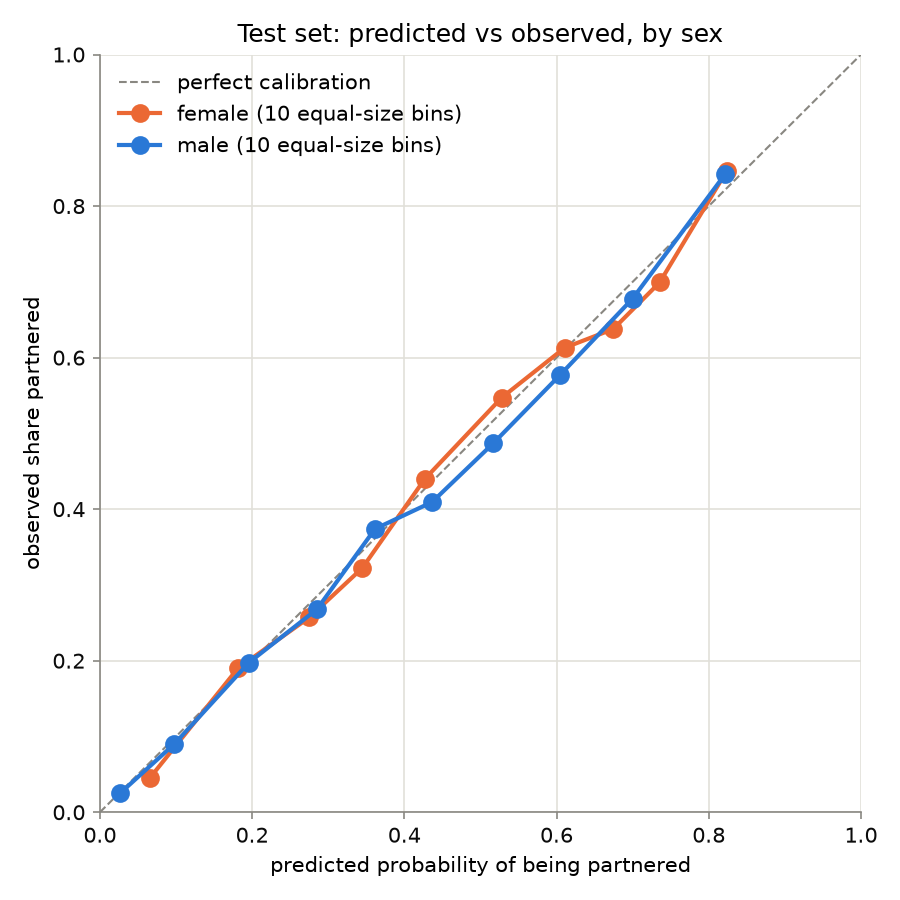
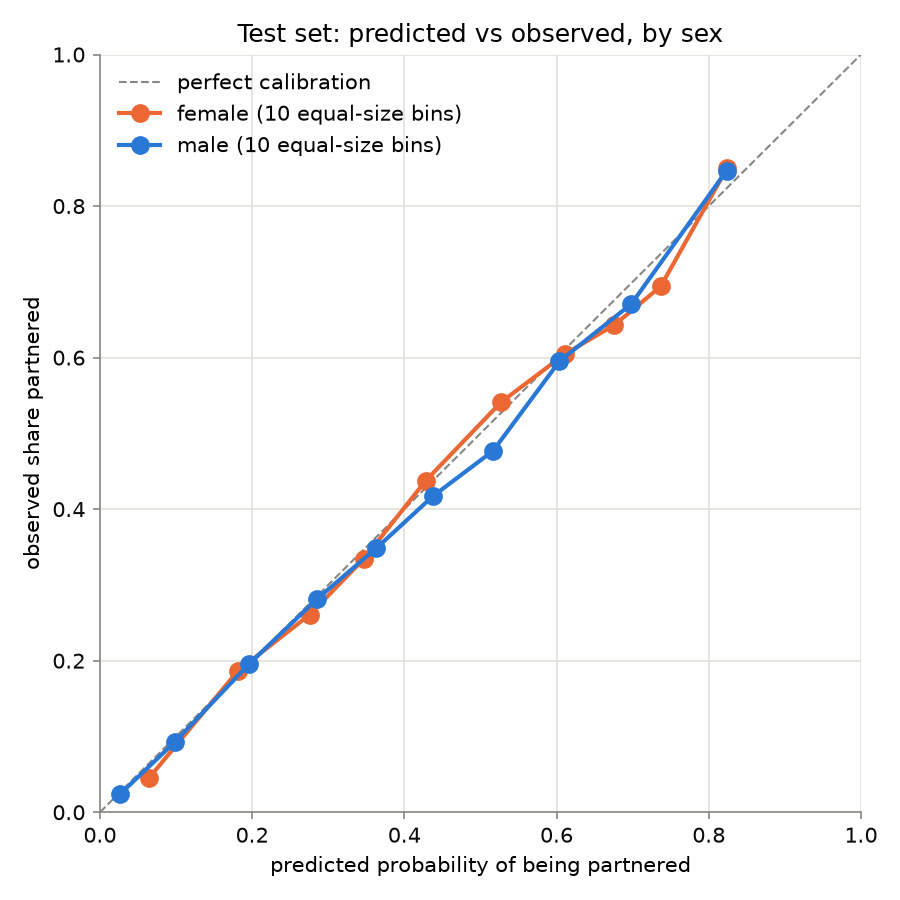
Review fixes: JSON null as missing, numeric type check, cap hours_worked
- predict.py: null on any field behaves like an omitted field; non-numeric
  values on numeric fields exit with a one-line message; why-comment on
  pandas 3 keeping NaN through astype("str").
- clean_nlsy97.py: hours_worked above 8,760 (hours in a year) set to NaN.
- Full rerun clean -> split -> train -> evaluate; test re-reported after
  the data fix, model code and settings unchanged.

diff --git a/src/predict.py b/src/predict.py
@@ -30,18 +30,26 @@ def predict_proba(model, people):
 
 def person_row(model, person):
     """Check the JSON fields and turn them into a one-row table with every feature column."""
-    if "age" not in person:
-        sys.exit("age is required: it drives most of the prediction")
     unknown = set(person) - set(model["features"])
     if unknown:
         sys.exit(f"unknown fields {sorted(unknown)}; allowed: {model['features']}")
+    # A JSON null means "unknown", exactly like leaving the field out.
+    person = {col: value for col, value in person.items() if value is not None}
+    if "age" not in person:
+        sys.exit("age is required: it drives most of the prediction")
+
+    categorical = list(model["categories"])
+    numeric = [col for col in model["features"] if col not in categorical]
     for col, allowed in model["categories"].items():
         if col in person and person[col] not in allowed:
             sys.exit(f"{col} must be one of {allowed}, got {person[col]!r}")
+    for col in numeric:
+        if col in person and not isinstance(person[col], (int, float)):
+            sys.exit(f"{col} must be a number, got {person[col]!r}")
 
     row = pd.DataFrame([person]).reindex(columns=model["features"])
-    categorical = list(model["categories"])
-    numeric = [col for col in model["features"] if col not in categorical]
+    # Missing categories must stay NaN (not the text "nan") so the pipelines impute them as in
+    # training; pandas 3 keeps NaN through astype("str"), pandas 2 would not.
     row[categorical] = row[categorical].astype("str")
     row[numeric] = row[numeric].astype(float)
     return row

diff --git a/tests/test_predict.py b/tests/test_predict.py
@@ -8,8 +8,15 @@ from pathlib import Path
 ROOT = Path(__file__).resolve().parent.parent
 
 
-def test_sparse_person_gets_a_probability():
-    person = {"age": 27, "sex": "female", "earnings": None}
+def predict(person):
     result = subprocess.run([sys.executable, "src/predict.py"], input=json.dumps(person),
                             capture_output=True, text=True, cwd=ROOT, check=True)
-    assert 0 <= float(result.stdout) <= 1
+    return float(result.stdout)
+
+
+def test_sparse_person_gets_a_probability():
+    assert 0 <= predict({"age": 27, "sex": "female", "earnings": None}) <= 1
+
+
+def test_null_category_is_the_same_as_an_omitted_one():
+    assert predict({"age": 27, "sex": "female", "religion": None}) == predict({"age": 27, "sex": "female"})

diff --git a/src/evaluate.py b/src/evaluate.py
@@ -117,6 +117,8 @@ def main():
         f"{len(test):,} rows, {test['person_id'].nunique():,} people never seen in training. "
         "Unweighted (survey weights not used). Lower is better except ROC-AUC. "
         "calib_error: mean gap between predicted and observed rate over 10 equal-size bins.\n\n"
+        "Second opening of the test set: a re-report after a data fix (hours_worked above "
+        "8,760 set to missing), with no changes to the model code or settings.\n\n"
         "## All models\n\n" + markdown(pd.DataFrame(overall)) + "\n\n"
         "## Final stack by sex\n\n" + markdown(pd.DataFrame(by_sex)) + "\n\n"
         "## Final stack by age band\n\n" + markdown(pd.DataFrame(by_age)) + "\n\n"

diff --git a/src/clean_nlsy97.py b/src/clean_nlsy97.py
@@ -160,7 +160,8 @@ def main():
             weeks[asked] = num(cols, f"CVC_WKSWK_YR_ALL_{int(yy):02d}_XRND")
             hours[asked] = num(cols, f"CVC_HOURS_WK_YR_ALL_{int(yy):02d}_XRND")
         part["weeks_worked"] = weeks
-        part["hours_worked"] = hours
+        # a year has 8,760 hours; a few reported totals exceed it (up to 17,276)
+        part["hours_worked"] = hours.where(hours <= 8760)
         part["employed"] = weeks.gt(0).map({True: 1.0, False: 0.0}).where(weeks.notna())
 
         # carried forward from every round, including before age 18

diff --git a/results/metrics.md b/results/metrics.md
@@ -2,30 +2,32 @@
 
 26,434 rows, 1,770 people never seen in training. Unweighted (survey weights not used). Lower is better except ROC-AUC. calib_error: mean gap between predicted and observed rate over 10 equal-size bins.
 
+Second opening of the test set: a re-report after a data fix (hours_worked above 8,760 set to missing), with no changes to the model code or settings.
+
 ## All models
 
 | group | rows | partnered | log_loss | brier | roc_auc | calib_error |
 |---|---|---|---|---|---|---|
 | age + sex baseline | 26434 | 0.428 | 0.6007 | 0.2086 | 0.7178 | 0.0100 |
-| catboost | 26434 | 0.428 | 0.5431 | 0.1845 | 0.7892 | 0.0146 |
-| final stack | 26434 | 0.428 | 0.5430 | 0.1845 | 0.7892 | 0.0139 |
+| catboost | 26434 | 0.428 | 0.5426 | 0.1844 | 0.7896 | 0.0151 |
+| final stack | 26434 | 0.428 | 0.5425 | 0.1844 | 0.7896 | 0.0146 |
 
 ## Final stack by sex
 
 | group | rows | partnered | log_loss | brier | roc_auc | calib_error |
 |---|---|---|---|---|---|---|
-| female | 13466 | 0.460 | 0.5600 | 0.1909 | 0.7774 | 0.0200 |
-| male | 12968 | 0.395 | 0.5252 | 0.1779 | 0.7973 | 0.0168 |
+| female | 13466 | 0.460 | 0.5600 | 0.1910 | 0.7776 | 0.0184 |
+| male | 12968 | 0.395 | 0.5244 | 0.1775 | 0.7981 | 0.0146 |
 
 ## Final stack by age band
 
 | group | rows | partnered | log_loss | brier | roc_auc | calib_error |
 |---|---|---|---|---|---|---|
-| 18-24 | 10989 | 0.233 | 0.4452 | 0.1457 | 0.7859 | 0.0128 |
-| 25-29 | 6800 | 0.502 | 0.6365 | 0.2227 | 0.6903 | 0.0208 |
-| 30-34 | 3608 | 0.598 | 0.6026 | 0.2079 | 0.7173 | 0.0267 |
-| 35-39 | 3554 | 0.639 | 0.5881 | 0.2016 | 0.7168 | 0.0276 |
-| 40-43 | 1483 | 0.619 | 0.5851 | 0.1999 | 0.7358 | 0.0446 |
+| 18-24 | 10989 | 0.233 | 0.4454 | 0.1458 | 0.7856 | 0.0124 |
+| 25-29 | 6800 | 0.502 | 0.6354 | 0.2222 | 0.6920 | 0.0208 |
+| 30-34 | 3608 | 0.598 | 0.6014 | 0.2074 | 0.7201 | 0.0282 |
+| 35-39 | 3554 | 0.639 | 0.5882 | 0.2017 | 0.7161 | 0.0296 |
+| 40-43 | 1483 | 0.619 | 0.5840 | 0.1995 | 0.7376 | 0.0490 |
 
 ## Confidently wrong
 
@@ -33,10 +35,10 @@ Rows where the final model was sure, split into right and wrong answers.
 
 | confidence | actually | rows | share | mean age | men | median earnings | mean weeks worked | has nonresident children |
 |---|---|---|---|---|---|---|---|---|
-| predicted ≥ 0.9 | right | 158 | 0.919 | 37.8 | 0.48 | 102,500 | 41.2 | 0.00 |
-| predicted ≥ 0.9 | wrong | 14 | 0.081 | 38.6 | 0.57 | 117,000 | 41.0 | 0.00 |
-| predicted ≤ 0.1 | right | 3008 | 0.963 | 19.2 | 0.64 | 3,000 | 26.0 | 0.01 |
-| predicted ≤ 0.1 | wrong | 114 | 0.037 | 19.6 | 0.66 | 5,000 | 30.1 | 0.03 |
+| predicted ≥ 0.9 | right | 186 | 0.935 | 37.6 | 0.54 | 101,500 | 40.9 | 0.00 |
+| predicted ≥ 0.9 | wrong | 13 | 0.065 | 39.5 | 0.46 | 107,500 | 29.9 | 0.00 |
+| predicted ≤ 0.1 | right | 3031 | 0.965 | 19.2 | 0.63 | 3,000 | 25.9 | 0.01 |
+| predicted ≤ 0.1 | wrong | 110 | 0.035 | 19.7 | 0.66 | 5,000 | 30.5 | 0.03 |
 
 ## Figures
 

diff --git a/results/cv_results.md b/results/cv_results.md
@@ -5,12 +5,12 @@
 | model | log_loss | brier | roc_auc | calib_error |
 |---|---|---|---|---|
 | age_sex_baseline | 0.6067 ± 0.0054 | 0.2111 ± 0.0024 | 0.7108 ± 0.0082 | 0.0132 ± 0.0040 |
-| logistic | 0.5701 ± 0.0080 | 0.1952 ± 0.0035 | 0.7645 ± 0.0086 | 0.0163 ± 0.0040 |
-| catboost | 0.5462 ± 0.0085 | 0.1856 ± 0.0036 | 0.7885 ± 0.0086 | 0.0124 ± 0.0039 |
-| tabpfn | 0.5544 ± 0.0100 | 0.1890 ± 0.0042 | 0.7807 ± 0.0096 | 0.0209 ± 0.0073 |
-| catboost + calibration (stacker on catboost alone) | 0.5463 ± 0.0086 | 0.1856 ± 0.0037 | 0.7885 ± 0.0086 | 0.0140 ± 0.0049 |
-| stack: logistic + catboost | 0.5464 ± 0.0086 | 0.1857 ± 0.0037 | 0.7884 ± 0.0086 | 0.0142 ± 0.0049 |
-| stack: catboost + tabpfn | 0.5462 ± 0.0087 | 0.1856 ± 0.0037 | 0.7886 ± 0.0088 | 0.0149 ± 0.0061 |
-| stack: logistic + catboost + tabpfn | 0.5463 ± 0.0087 | 0.1856 ± 0.0037 | 0.7885 ± 0.0088 | 0.0148 ± 0.0059 |
+| logistic | 0.5701 ± 0.0079 | 0.1952 ± 0.0035 | 0.7644 ± 0.0086 | 0.0164 ± 0.0039 |
+| catboost | 0.5460 ± 0.0083 | 0.1855 ± 0.0035 | 0.7886 ± 0.0084 | 0.0121 ± 0.0040 |
+| tabpfn | 0.5544 ± 0.0100 | 0.1890 ± 0.0042 | 0.7806 ± 0.0096 | 0.0205 ± 0.0070 |
+| catboost + calibration (stacker on catboost alone) | 0.5462 ± 0.0085 | 0.1856 ± 0.0036 | 0.7886 ± 0.0084 | 0.0139 ± 0.0045 |
+| stack: logistic + catboost | 0.5462 ± 0.0085 | 0.1856 ± 0.0036 | 0.7885 ± 0.0084 | 0.0138 ± 0.0046 |
+| stack: catboost + tabpfn | 0.5460 ± 0.0085 | 0.1855 ± 0.0036 | 0.7888 ± 0.0086 | 0.0140 ± 0.0052 |
+| stack: logistic + catboost + tabpfn | 0.5461 ± 0.0086 | 0.1856 ± 0.0036 | 0.7886 ± 0.0086 | 0.0140 ± 0.0051 |
 
-Final model: stack of catboost; stacker weights on each model's log-odds: {'catboost': 1.022}.
+Final model: stack of catboost; stacker weights on each model's log-odds: {'catboost': 1.024}.
